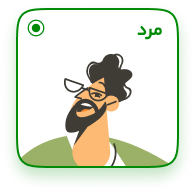
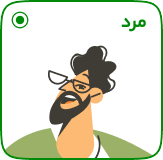
change the image of gender selection when a gender is active

diff --git a/lib/screens/personal_info/gender_page.dart b/lib/screens/personal_info/gender_page.dart
@@ -82,12 +82,12 @@ class GenderPageState extends State<GenderPage> {
           curve: Curves.easeInOut,
           decoration: BoxDecoration(
             borderRadius: BorderRadius.circular(25),
-            border: Border.all(
-              color: _selectedGender == gender
-                  ? const Color(0xFF018A08)
-                  : Colors.transparent,
-              width: 2,
-            ),
+            // border: Border.all(
+            //   color: _selectedGender == gender
+            //       ? const Color(0xFF018A08)
+            //       : Colors.transparent,
+            //   width: 2,
+            // ),
             boxShadow: _selectedGender == gender
                 ? [
                     BoxShadow(
@@ -99,10 +99,17 @@ class GenderPageState extends State<GenderPage> {
                   ]
                 : [],
           ),
-          child: AspectRatio(
-            aspectRatio: 1,
+          child: AnimatedSwitcher(
+            duration: const Duration(milliseconds: 300),
+            switchInCurve: Curves.easeInOut,
+            switchOutCurve: Curves.easeInOut,
             child: Image.asset(
-              imageAsset,
+              _selectedGender == gender
+                  ? imageAsset.replaceFirst('.png', '_active.png')
+                  : imageAsset,
+              key: ValueKey(_selectedGender == gender
+                  ? 'active_$gender'
+                  : 'inactive_$gender'),
               fit: BoxFit.contain,
             ),
           ),
